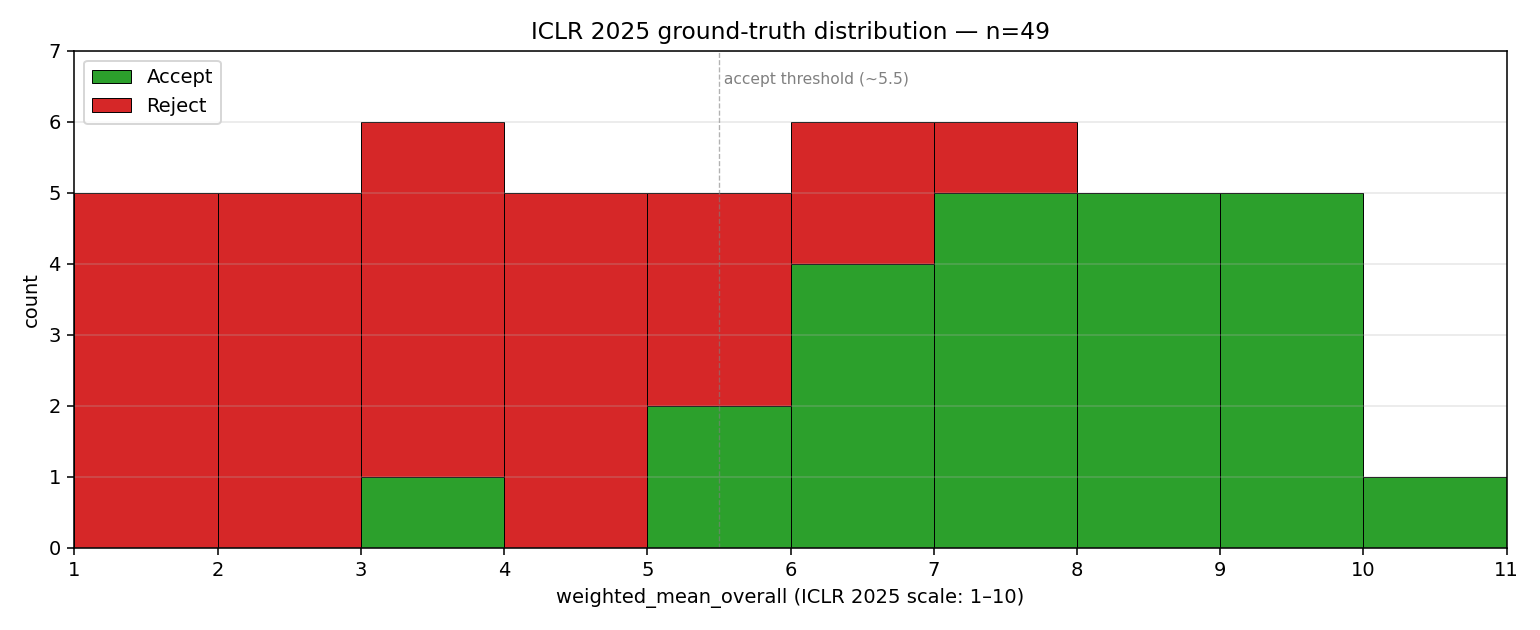
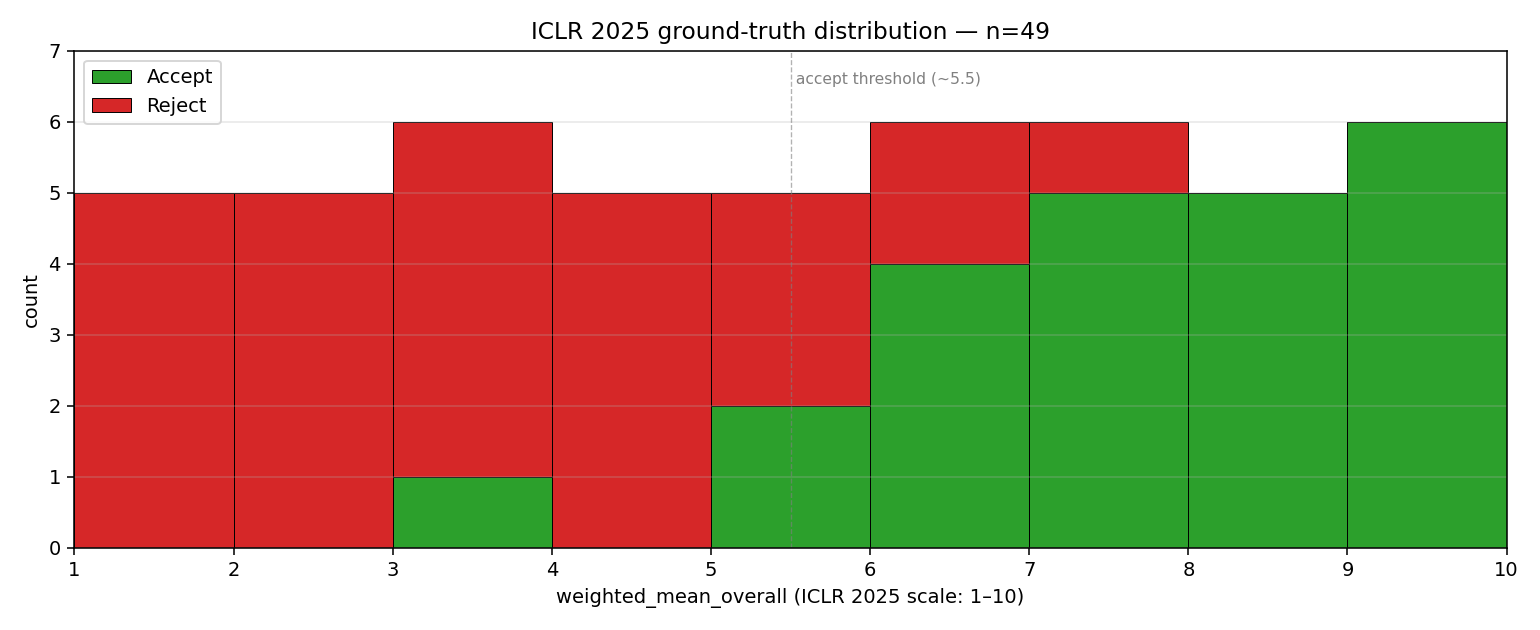
plot_iclr: cap x-axis at 10, fold wmean=10.0 into last bin

diff --git a/scripts/plot_iclr.py b/scripts/plot_iclr.py
@@ -12,7 +12,7 @@ for f in sorted(GT.glob("*.json")):
     rows.append({"wmean": d["ground_truth"]["weighted_mean_overall"],
                  "accept": d["ground_truth"]["accept"]})
 
-edges = list(range(1, 12))  # 1..11 for [1,2)..[10,11)
+edges = list(range(1, 10)) + [10.01]  # [1,2)..[9,10) plus a closed-right bin to catch wmean=10.0
 accept_vals = [r["wmean"] for r in rows if r["accept"]]
 reject_vals = [r["wmean"] for r in rows if not r["accept"]]
 
@@ -23,8 +23,8 @@ ax.hist([accept_vals, reject_vals], bins=edges, stacked=True,
 ax.set_xlabel("weighted_mean_overall (ICLR 2025 scale: 1–10)")
 ax.set_ylabel("count")
 ax.set_title(f"ICLR 2025 ground-truth distribution — n={len(rows)}")
-ax.set_xticks(edges)
-ax.set_xlim(1, 11)
+ax.set_xticks(list(range(1, 11)))
+ax.set_xlim(1, 10)
 bin_totals = [sum(1 for r in rows if lo <= r["wmean"] < hi) for lo, hi in zip(edges[:-1], edges[1:])]
 y_top = max(bin_totals) + 1
 ax.set_ylim(0, y_top)
